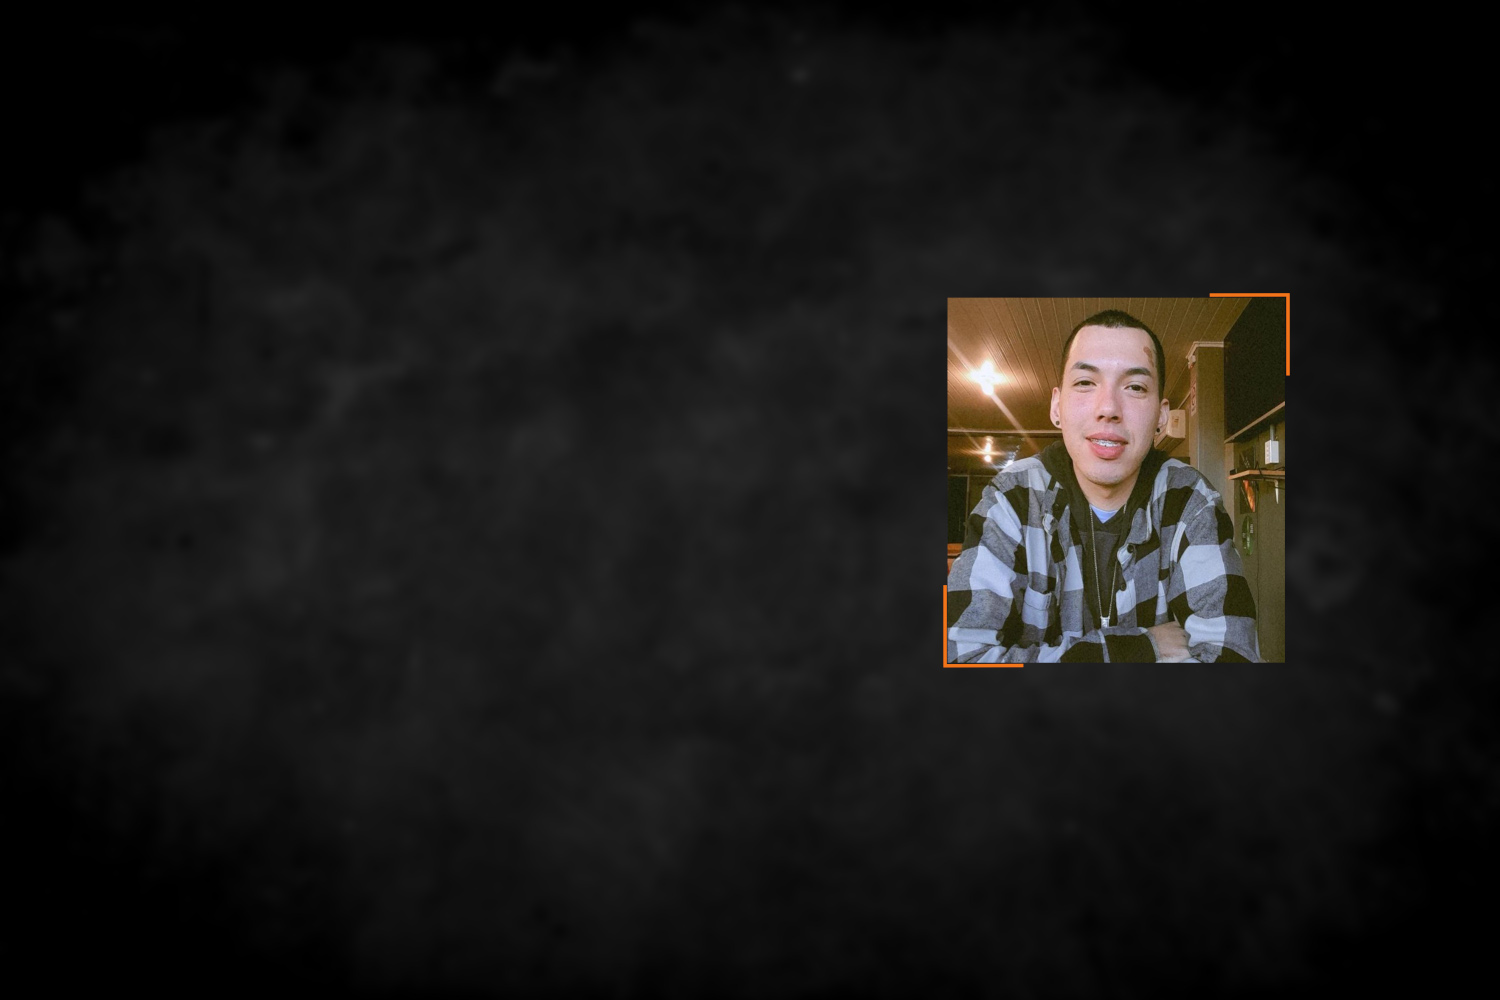
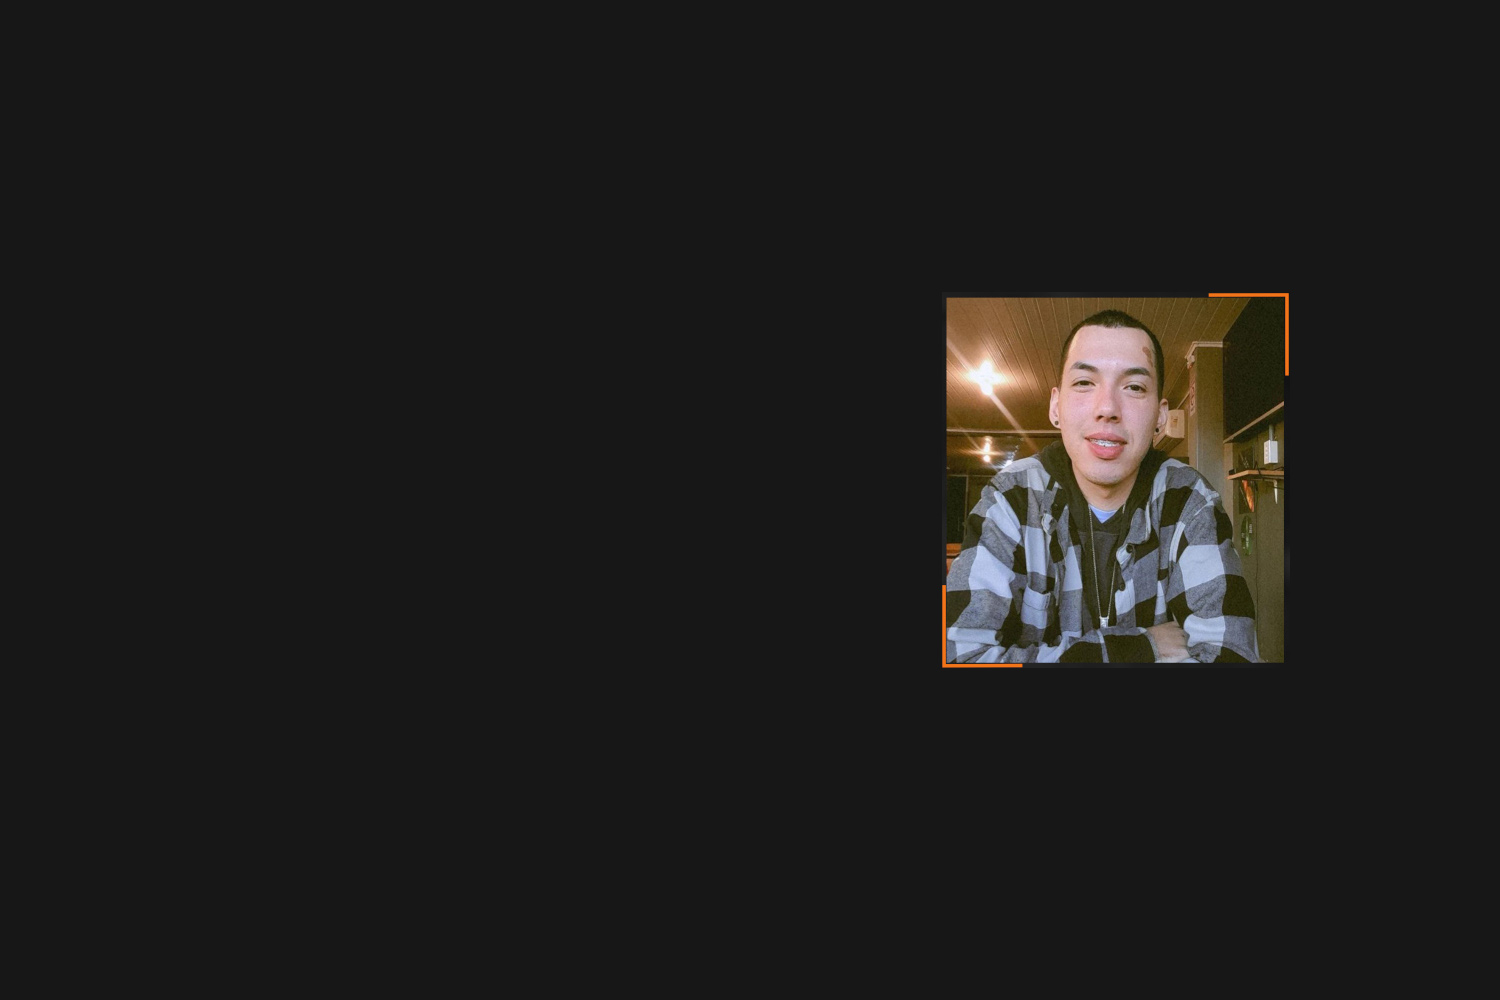
melhorias no front end

Changed region(s): [[0.644, 0.434, 0.8587, 0.651], [0.7667, 0.341, 0.7973, 0.434], [0.6133, 0.589, 0.644, 0.651]]

diff --git a/index.html b/index.html
@@ -1,5 +1,6 @@
 <!DOCTYPE html>
 <html lang="en">
+
 <head>
     <meta charset="UTF-8">
     <meta name="viewport" content="width=device-width, initial-scale=1.0">
@@ -9,15 +10,17 @@
     <link href='https://unpkg.com/boxicons@2.1.4/css/boxicons.min.css' rel='stylesheet'>
     <script src="https://unpkg.com/typed.js@2.0.16/dist/typed.umd.js"></script>
 </head>
+
 <body>
     <header class="header">
-        <a href="#" class="logo">Portfolio</a>
+        <a href="#" class="logo">Portfolio.</a>
 
         <nav class="navbar">
-            <a href="#">Home</a>
-            <a href="#">Sobre</a>
-            <a href="#">Habilidades</a>
-            <a href="#">Contato</a>
+            <a href="#" style="--i:1" class="active">Inicio</a>
+            <a href="#" style="--i:2">Sobre</a>
+            <a href="#" style="--i:3">Habilidades</a>
+            <a href="#" style="--i:4">Portfolio</a>
+            <a href="#" style="--i:5">Contato</a>
         </nav>
     </header>
     <section class="home">
@@ -26,15 +29,68 @@
             <h1>Patrick Strassburger</h1>
             <h3>Sou <span class="text"></span></h3>
             <p>
-              Sou um entusiasta apaixonado pela criação de soluções web e desenvolvimento de software. Nos últimos 18 meses, mergulhei de cabeça no mundo da programação e adquiri um conjunto diversificado de habilidades que incluem HTML, CSS e JavaScript, permitindo-me criar interfaces web interativas e atraentes. <br> Além disso, tenho experiência com React e Node.js, que me possibilitaram desenvolver aplicativos web dinâmicos e escaláveis. Também sou proficiente em MySQL para gerenciamento de bancos de dados, garantindo que meus projetos sejam robustos e eficientes. <br> Estou sempre em busca de aprendizado contínuo e aprimoramento das minhas habilidades, e mal posso esperar para compartilhar meu trabalho e contribuir para desafios emocionantes no mundo do desenvolvimento web.
+                Sou um entusiasta apaixonado pela criação de soluções web e desenvolvimento de software. Nos últimos 18
+                meses, mergulhei de cabeça no mundo da programação e adquiri um conjunto diversificado de habilidades
+                que incluem HTML, CSS e JavaScript, permitindo-me criar interfaces web interativas e atraentes. <br>
+                Além disso, tenho experiência com React e Node.js, que me possibilitaram desenvolver aplicativos web
+                dinâmicos e escaláveis. Também sou proficiente em MySQL para gerenciamento de bancos de dados,
+                garantindo que meus projetos sejam robustos e eficientes. <br> Estou sempre em busca de aprendizado
+                contínuo e aprimoramento das minhas habilidades, e mal posso esperar para compartilhar meu trabalho e
+                contribuir para desafios emocionantes no mundo do desenvolvimento web.
             </p>
             <div class="home-sci">
-                <a href="https://www.linkedin.com/in/patrick-strassburger/" target="_blank"><i class='bx bxl-linkedin'></i></a>
-                <a href="https://github.com/PatriickDe-v" target="_blank"><i class='bx bxl-github' ></i></a>
+                <a href="https://www.linkedin.com/in/patrick-strassburger/" target="_blank"><i class='bx bxl-linkedin'
+                        style="--i:6"></i></a>
+                <a href="https://github.com/PatriickDe-v" target="_blank" style="--i:7"><i
+                        class='bx bxl-github'></i></a>
             </div>
             <a href="#" class="btn-box">Mais algumas coisas sobre mim</a>
         </div>
+        <span class="home-imgHover"></span>
     </section>
+    <section>
+        <div class="services" id="services">
+            <div class="container">
+                <h1 class="sub-title">Meus <span>Trabalhos</span></h1>
+                <div class="servies-list">
+                    <div>
+                        <i class='bx bx-code' style='color:#e54818'></i>
+                        <h2>Projeto 1</h2>
+                        <p>Lorem ipsum dolor sit amet consectetur adipisicing elit. Voluptates beatae unde ea pariatur
+                            laudantium ipsum! Aperiam sint distinctio nulla, esse deleniti voluptates dicta excepturi
+                            rerum, cum mollitia eveniet, vitae et?</p>
+                        <a href="#" class="read">Saiba mais</a>
+                    </div>
+                    <div>
+                        <i class='bx bx-crop' style='color:#e54818'></i>
+                        <h2>Projeto 2</h2>
+                        <p>Lorem ipsum dolor sit amet consectetur adipisicing elit. Voluptates beatae unde ea pariatur
+                            laudantium ipsum! Aperiam sint distinctio nulla, esse deleniti voluptates dicta excepturi
+                            rerum, cum mollitia eveniet, vitae et?</p>
+                        <a href="#" class="read">Saiba mais</a>
+                    </div>
+                    <div>
+                        <i class='bx bxl-apple' style='color:#e54818'></i>
+                        <h2>Projeto 2</h2>
+                        <p>Lorem ipsum dolor sit amet consectetur adipisicing elit. Voluptates beatae unde ea pariatur
+                            laudantium ipsum! Aperiam sint distinctio nulla, esse deleniti voluptates dicta excepturi
+                            rerum, cum mollitia eveniet, vitae et?</p>
+                        <a href="#" class="read">Saiba mais</a>
+                    </div>
+                </div>
+            </div>
+        </div>
+    </section>
+
+
+
+
+
+
+
+
+
     <script src="main.js"></script>
 </body>
+
 </html>

diff --git a/style.css b/style.css
@@ -4,9 +4,12 @@
     box-sizing: border-box;
     font-family: 'Roboto', sans-serif;
 }
-  @import url('https://fonts.googleapis.com/css2?family=Roboto:wght@400;900&display=swap');
+
+@import url('https://fonts.googleapis.com/css2?family=Roboto:wght@400;900&display=swap');
+
 body {
     color: #ededed;
+    background: #171717;
 
 }
 
@@ -16,19 +19,24 @@ body {
     left: 0;
     width: 100%;
     padding: 20px 10%;
-    background: transparent;
-    display: flex;  
-    justify-content: space-between; 
+    background: #0a0a0a;
+    display: flex;
+    justify-content: space-between;
     align-items: center;
     z-index: 100;
 }
+
 .logo {
     position: relative;
     font-size: 25px;
     color: #fff;
     text-decoration: none;
     font-weight: 600;
+    cursor: default;
+    opacity: 0;
+    animation: slideRight 1s ease forwards;
 }
+
 .navbar a {
     display: inline-block;
     font-size: 25px;
@@ -37,10 +45,15 @@ body {
     font-weight: 500;
     margin-left: 35px;
     transition: .3s;
+    opacity: 0;
+    animation: slideTop .5s ease forwards;
+    animation-delay: calc(.2 * let(--i));
 }
+
 .navbar a:hover {
     color: #E54818;
 }
+
 .home {
     position: relative;
     width: 100%;
@@ -53,24 +66,45 @@ body {
     align-items: center;
     padding: 70px 10% 0;
 }
+
 .home-content {
     max-width: 600px;
 }
+
 .home-content h3 {
     font-size: 32px;
     font-weight: 700;
+    opacity: 0;
+    animation: slideBottom 1s ease forwards;
+    animation-delay: .7s;
 }
+
+.home-content h3:nth-of-type(2) {
+    margin-bottom: 30px;
+    animation: slideTop 1s ease forwards;
+    animation-delay: .7s;
+}
+
 .home-content h3 span {
     color: #E54818;
 }
-.home-content h1{
+
+.home-content h1 {
     font-size: 56px;
     font-weight: 700;
     margin: -3px -0;
+    opacity: 0;
+    animation: slideRight 1s ease forwards;
+    animation-delay: 1s;
 }
+
 .home-content p {
     font-size: 20px;
+    opacity: 0;
+    animation: slideLeft 1s ease forwards;
+    animation-delay: 1s;
 }
+
 .home-sci a {
     display: inline-flex;
     justify-content: center;
@@ -83,13 +117,19 @@ body {
     font-size: 20px;
     color: #E54818;
     text-decoration: none;
+    transition: .5s ease;
+    opacity: 0;
+    animation: slideLeft 1s ease forwards;
+    animation-delay: calc(.2s * let(--i));
     margin: 30px 15px 30px 0;
 }
+
 .home-sci a:hover {
     background: #E54818;
     color: #04101a;
     box-shadow: 0 0 20px #E54818;
 }
+
 .btn-box {
     display: inline-block;
     padding: 12px 28px;
@@ -100,9 +140,80 @@ body {
     letter-spacing: 1px;
     text-decoration: none;
     font-weight: 600;
+    opacity: 0;
+    animation: slideTop 1s ease forwards;
+    animation-delay: 2s;
+    box-shadow: 0 0 5px #E54818,
+        0 0 25px #E54818, ;
 }
+
 .btn-box:hover {
     box-shadow: 0 0 5px #E54818,
-    0 0 25px #E54818, 0 0 50px #E54818,
-    0 0 100px #E54818, 0 0 200px #E54818;
+        0 0 25px #E54818, 0 0 50px #E54818,
+        0 0 100px #E54818, 0 0 200px #E54818;
+}
+#services {
+    color: aliceblue;   
+    font-size: 20px;
+    line-height: 1.4;
+    margin-bottom: 4rem;
+}
+.sub-title {
+    text-align: center;
+    font-size: 60px;
+    padding-bottom: 70px;
+}
+.container {
+    padding: 90px;
+}
+
+
+
+
+@keyframes slideRight {
+    0% {
+        transform: translateX(-100px);
+        opacity: 0;
+    }
+
+    100% {
+        transform: translateX(0px);
+        opacity: 1;
+    }
+}
+
+@keyframes slideLeft {
+    0% {
+        transform: translateX(100px);
+        opacity: 0;
+    }
+
+    100% {
+        transform: translateX(0px);
+        opacity: 1;
+    }
+}
+
+@keyframes slideTop {
+    0% {
+        transform: translateY(100px);
+        opacity: 0;
+    }
+
+    100% {
+        transform: translateY(0px);
+        opacity: 1;
+    }
+}
+
+@keyframes slideBottom {
+    0% {
+        transform: translateY(-100px);
+        opacity: 0;
+    }
+
+    100% {
+        transform: translateY(0px);
+        opacity: 1;
+    }
 }
